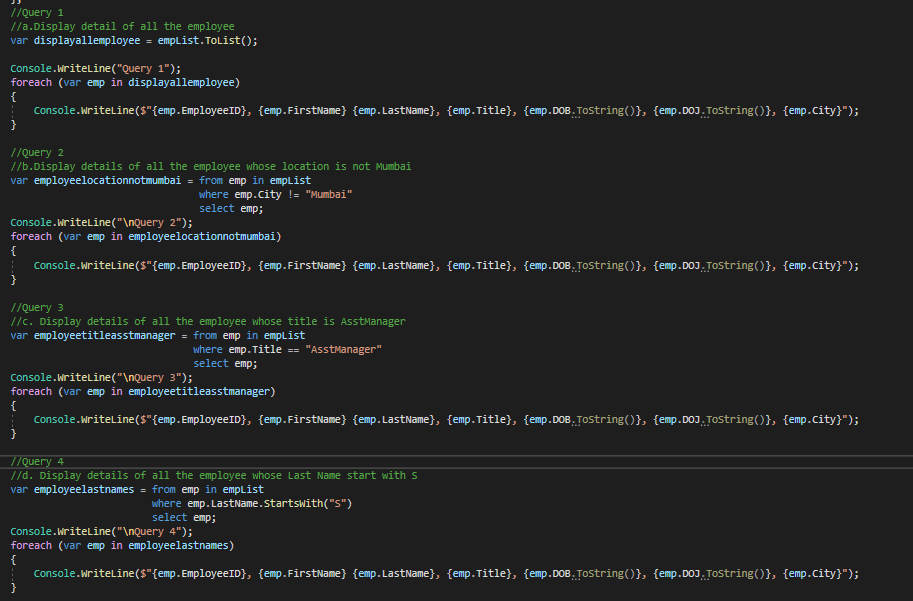
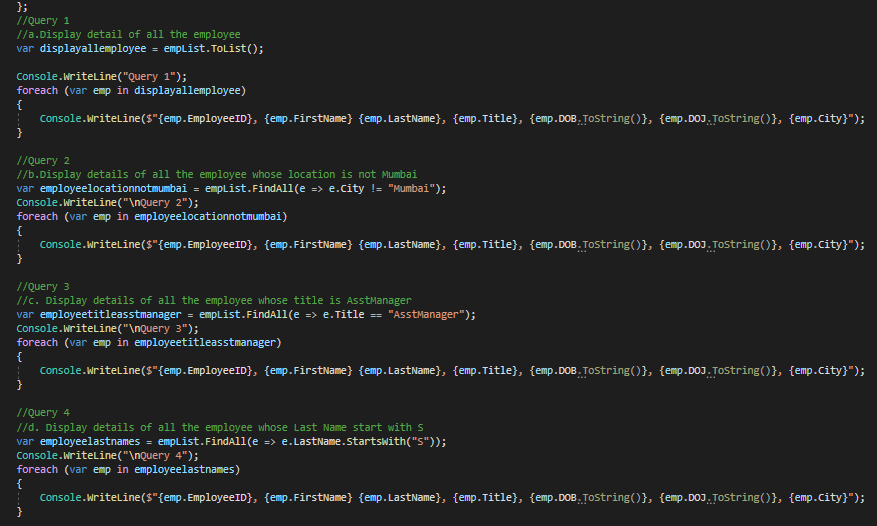
C# and SQL Code challenge submitted

Changed region(s): [[0.0, 0.0, 1.0, 0.9734]]

diff --git a/SQL/Code Challenges/Code Challenge 1/CSharp/CSharp/Question 1.cs b/SQL/Code Challenges/Code Challenge 1/CSharp/CSharp/Question 1.cs
@@ -53,9 +53,7 @@ namespace CSharp
 
             //Query 2
             //b.Display details of all the employee whose location is not Mumbai
-            var employeelocationnotmumbai = from emp in empList
-                                            where emp.City != "Mumbai"
-                                            select emp;
+            var employeelocationnotmumbai = empList.FindAll(e => e.City != "Mumbai");
             Console.WriteLine("\nQuery 2");
             foreach (var emp in employeelocationnotmumbai)
             {
@@ -64,9 +62,7 @@ namespace CSharp
 
             //Query 3
             //c. Display details of all the employee whose title is AsstManager
-            var employeetitleasstmanager = from emp in empList
-                                           where emp.Title == "AsstManager"
-                                           select emp;
+            var employeetitleasstmanager = empList.FindAll(e => e.Title == "AsstManager");
             Console.WriteLine("\nQuery 3");
             foreach (var emp in employeetitleasstmanager)
             {
@@ -75,9 +71,7 @@ namespace CSharp
 
             //Query 4
             //d. Display details of all the employee whose Last Name start with S
-            var employeelastnames = from emp in empList
-                                    where emp.LastName.StartsWith("S")
-                                    select emp;
+            var employeelastnames = empList.FindAll(e => e.LastName.StartsWith("S"));
             Console.WriteLine("\nQuery 4");
             foreach (var emp in employeelastnames)
             {
